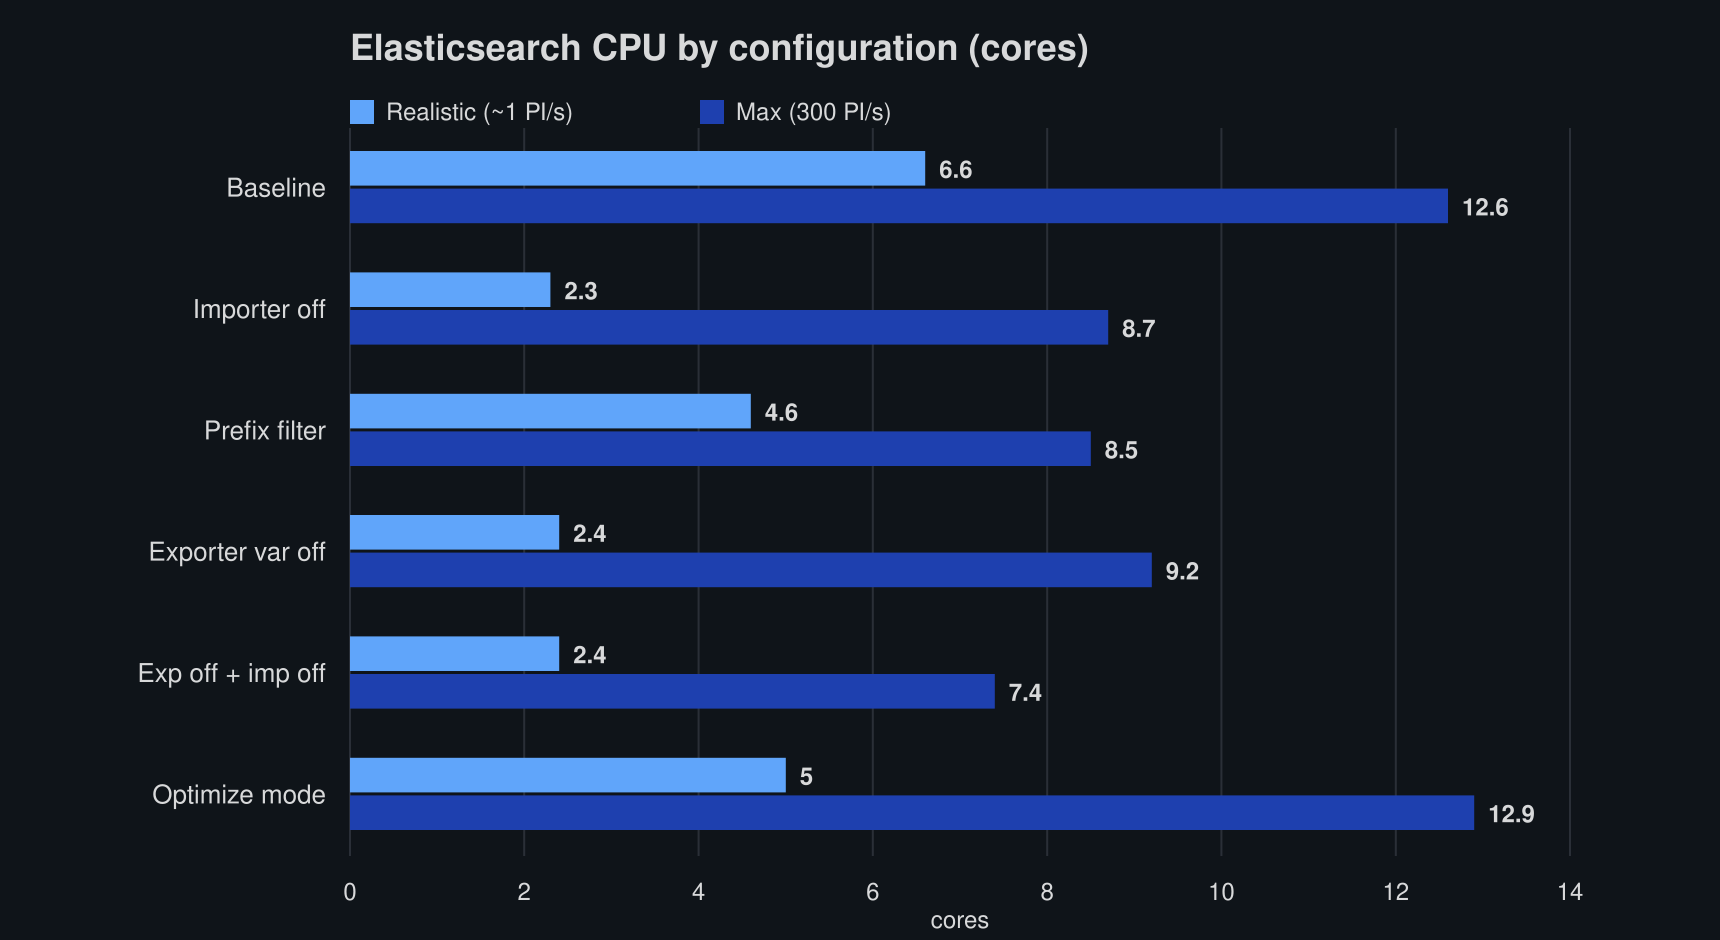
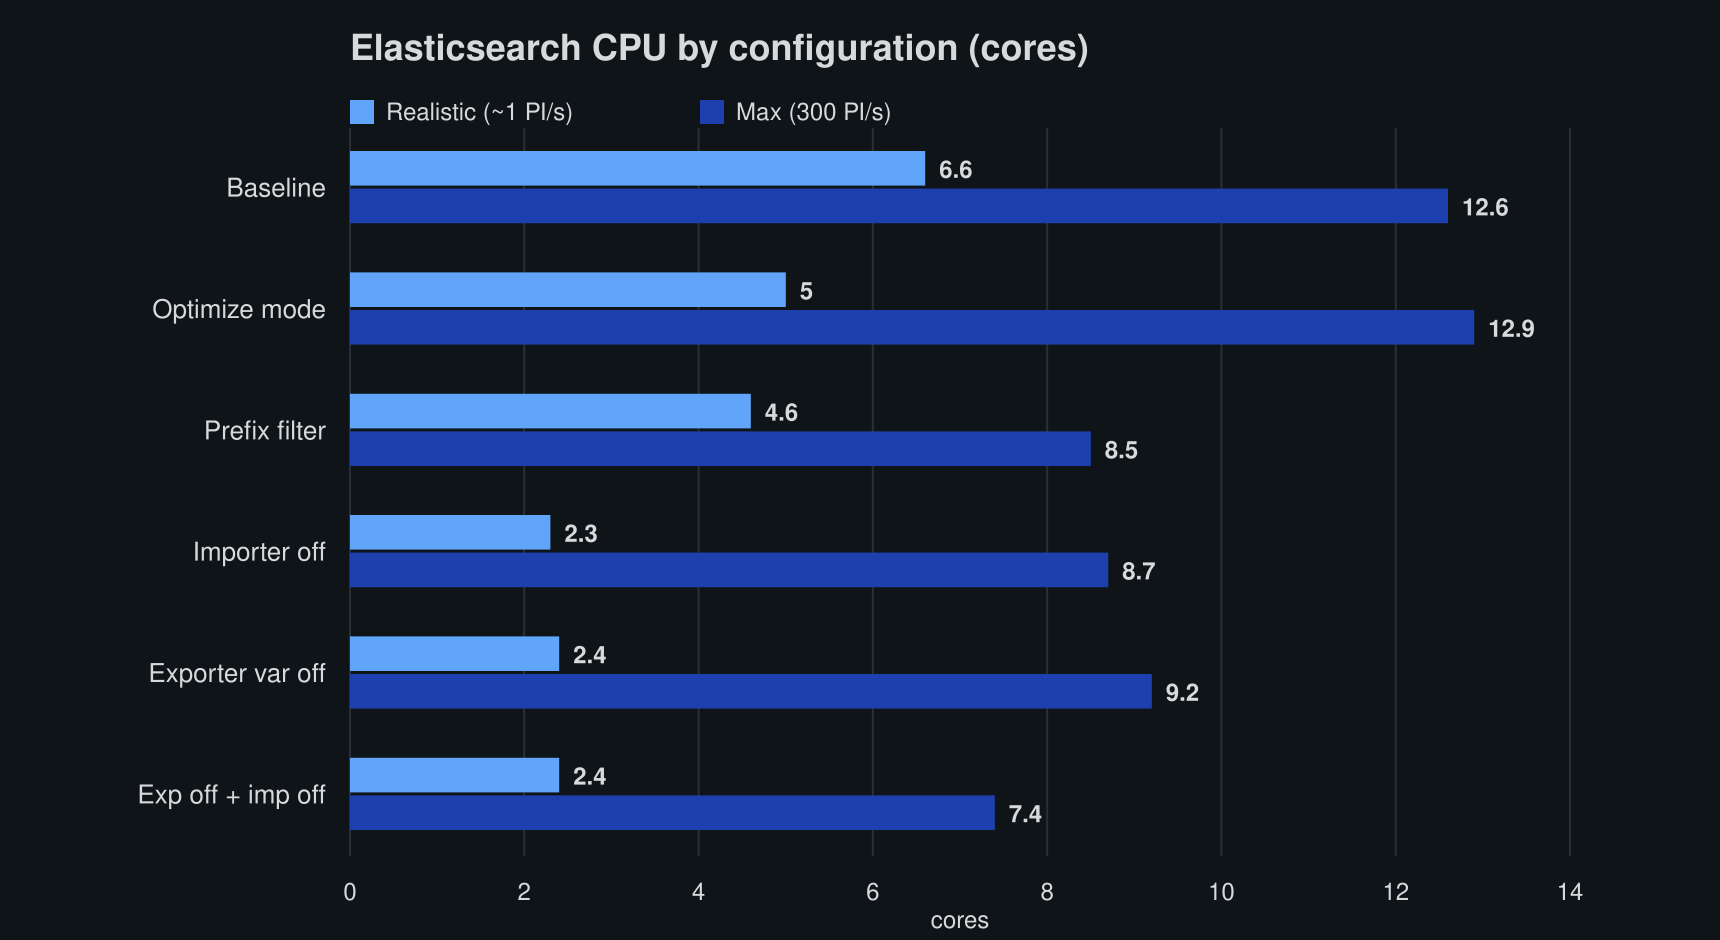
style: align all tables and charts to data-flow image order
Reorder the configurations, validation, ES CPU, and max-throughput tables plus the storage-by-family and es-cpu-by-config charts to the canonical data-flow order: Baseline, Optimize mode, Prefix filter, Importer off, Exporter variable off, Exporter off + importer off.

diff --git a/chaos-days/blog/2026-06-25-Impact-of-Optimize-Variable-Filtering/index.md b/chaos-days/blog/2026-06-25-Impact-of-Optimize-Variable-Filtering/index.md
@@ -45,11 +45,11 @@ Each configuration changes only how process **variables** are exported to Elasti
 | Name | What it changes | Key setting |
 |---|---|---|
 | Baseline | Default, all variables exported and imported | _(none)_ |
-| Importer off | Optimize skips importing variables (still exported to ES) | `CAMUNDA_OPTIMIZE_ZEEBE_VARIABLE_IMPORT_ENABLED=false` |
+| Optimize mode | Exporter writes only what Optimize needs | `zeebe.broker.exporters.elasticsearch.args.index.optimizeModeEnabled=true` |
 | Prefix filter | Only variables named `customer*` are exported | `zeebe.broker.exporters.elasticsearch.args.index.variableNameInclusionStartWith[0]=customer` |
+| Importer off | Optimize skips importing variables (still exported to ES) | `CAMUNDA_OPTIMIZE_ZEEBE_VARIABLE_IMPORT_ENABLED=false` |
 | Exporter variable off | No variable records exported at all | `zeebe.broker.exporters.elasticsearch.args.index.variable=false` |
 | Exporter off + importer off | Both of the above (belt-and-suspenders) | `index.variable=false` + `VARIABLE_IMPORT_ENABLED=false` |
-| Optimize mode | Exporter writes only what Optimize needs | `zeebe.broker.exporters.elasticsearch.args.index.optimizeModeEnabled=true` |
 
 **A note on the 8.9 architecture, because it shapes every result:** the Elasticsearch exporter being tuned here feeds **only Optimize** (plus any custom data-ingestion pipeline a customer wires up). **Operate and Tasklist get their data from the Camunda Exporter**, a separate path. So all of these levers affect Optimize alone; Operate and Tasklist keep full variable data regardless. We confirm this empirically below.
 
@@ -82,11 +82,11 @@ curl -s -H 'Content-Type: application/json' \
 | Configuration | Total Docs in `zeebe-record_variable.*` | `disputeDetails` | `customer` |
 |---|---|---|---|
 | Baseline | 11.4M | 16,001 | 1,615,967 |
-| Importer off | 11.5M | 16,164 | 1,632,452 |
+| Optimize mode | 11.5M | 16,114 | 1,627,390 |
 | Prefix filter (`customer`) | 1.67M | 0 | 1,637,615 |
+| Importer off | 11.5M | 16,164 | 1,632,452 |
 | Exporter variable off | 0 | 0 | 0 |
 | Exporter off + importer off | 0 | 0 | 0 |
-| Optimize mode | 11.5M | 16,114 | 1,627,390 |
 
 This confirms the filters at the data level: **exporter variable off** writes no variable records; the **prefix filter** drops every non-`customer` variable (`disputeDetails` = 0) while keeping `customer*`. The **importer off** / **optimize mode** leave the full variable stream in the exported indices (their effect is downstream, in Optimize's own indices).
 
@@ -141,10 +141,10 @@ The Optimize-mode result leaves the Optimize index essentially unchanged (244 vs
 
 ES CPU tracks the storage story almost exactly (the chart above shows both workloads; the max bars are discussed below):
 
-| Metric (cores) | Baseline | Importer off | Prefix filter | Exporter var off | Exp off + imp off | Optimize mode |
+| Metric (cores) | Baseline | Optimize mode | Prefix filter | Importer off | Exporter var off | Exp off + imp off |
 |---|---|---|---|---|---|---|
-| ES CPU | 6.6 | 2.3 | 4.6 | 2.4 | 2.4 | 5.0 |
-| Camunda CPU | ~4.5 | ~4.2 | ~5.5 | ~3.9 | ~4.9 | ~4.4 |
+| ES CPU | 6.6 | 5.0 | 4.6 | 2.3 | 2.4 | 2.4 |
+| Camunda CPU | ~4.5 | ~4.4 | ~5.5 | ~4.2 | ~3.9 | ~4.9 |
 
 Removing variables from Optimize cuts ES CPU by ~65% (6.6 → ~2.4 cores). **Camunda broker CPU is unaffected**: it sits around 4-5 cores regardless. Variable filtering is purely an Elasticsearch-side lever. ES (and total) memory was likewise flat (~13-15 GiB ES) across all six, likely because the JVMs simply preallocate the memory.
 
@@ -154,10 +154,10 @@ Removing variables from Optimize cuts ES CPU by ~65% (6.6 → ~2.4 cores). **Cam
 
 ![Throughput comparison, max scenario](max-throughput.png)
 
-| Metric | Baseline | Importer off | Prefix filter | Exporter var off | Exp off + imp off | Optimize mode |
+| Metric | Baseline | Optimize mode | Prefix filter | Importer off | Exporter var off | Exp off + imp off |
 |---|---|---|---|---|---|---|
-| Completed PI/s | 225 | 240 | 249 | 261 | 239 | 250 |
-| Dropped req/s (backpressure) | 416 | 374 | 345 | 267 | 379 | 318 |
+| Completed PI/s | 225 | 250 | 249 | 240 | 261 | 239 |
+| Dropped req/s (backpressure) | 416 | 318 | 345 | 374 | 267 | 379 |
 
 The robust signal: **baseline is consistently the worst** (~205-225 PI/s with the highest backpressure across every sample), and configurations that keep variables out of the export sustain **~15-20% more throughput**. The fine ranking *among* the variable-reduced configs sits inside run-to-run / noisy-neighbour variance (±~20 PI/s), so we don't read precise positions into it. For example, Optimize mode read 250 PI/s in this sample but 207 in another, so we make no throughput claim for it.
 